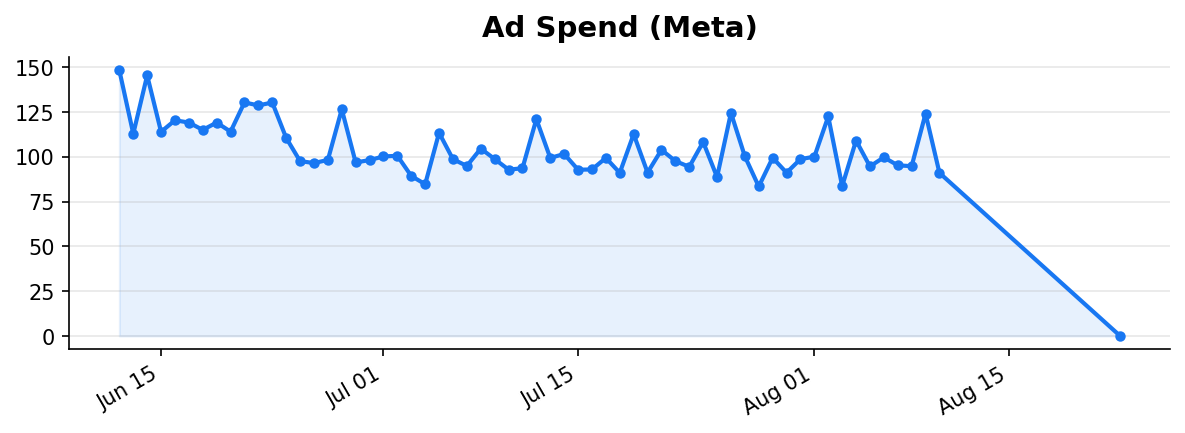
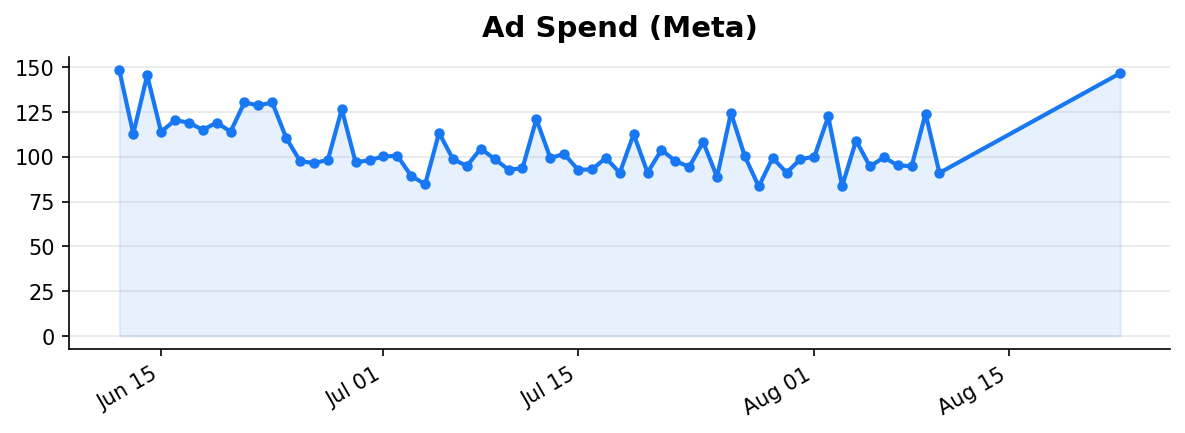
Update dashboard — 2026-08-24

diff --git a/docs/meta-ads.html b/docs/meta-ads.html
@@ -177,7 +177,7 @@
   <header>
     <span class="date-badge">2026-08-23</span>
     <h1>Meta Ads Daily Performance</h1>
-    <p>Paid media metrics &amp; calculated KPIs &middot; Generated 2026-08-24 12:15 UTC</p>
+    <p>Paid media metrics &amp; calculated KPIs &middot; Generated 2026-08-24 12:18 UTC</p>
   </header>
 
   <!-- ═══════════ RAW METRICS ═══════════ -->
@@ -190,37 +190,37 @@
   <div class="metric-grid">
     <div class="metric-card">
       <div class="label">Spend</div>
-      <div class="value">$0.00</div>
+      <div class="value">$146.58</div>
     </div>
     <div class="metric-card">
       <div class="label">Purchases</div>
-      <div class="value">0</div>
+      <div class="value">5</div>
       <div class="formula">Meta-reported purchases</div>
     </div>
     <div class="metric-card">
       <div class="label">Purchase Value</div>
-      <div class="value">$0.00</div>
+      <div class="value">$199.95</div>
       <div class="formula">Meta-attributed total purchase value</div>
     </div>
     <div class="metric-card">
       <div class="label">Impressions</div>
-      <div class="value">0</div>
+      <div class="value">3,779</div>
     </div>
     <div class="metric-card">
       <div class="label">Reach</div>
-      <div class="value">0</div>
+      <div class="value">3,171</div>
     </div>
     <div class="metric-card">
       <div class="label">Link Clicks</div>
-      <div class="value">0</div>
+      <div class="value">156</div>
     </div>
     <div class="metric-card">
       <div class="label">3-Second Plays</div>
-      <div class="value">0</div>
+      <div class="value">677</div>
     </div>
     <div class="metric-card">
       <div class="label">25% Plays</div>
-      <div class="value">0</div>
+      <div class="value">180</div>
     </div>
   </div>
 
@@ -234,47 +234,47 @@
   <div class="metric-grid">
     <div class="metric-card">
       <div class="label">ROAS</div>
-      <div class="value">0.00x</div>
+      <div class="value">1.36x</div>
       <div class="formula">Meta-reported Return on Ad Spend</div>
     </div>
     <div class="metric-card">
       <div class="label">MER</div>
-      <div class="value">0.00x</div>
+      <div class="value">1.36x</div>
       <div class="formula">Meta Revenue / Meta Spend</div>
     </div>
     <div class="metric-card">
       <div class="label">CPP</div>
-      <div class="value">$0.00</div>
+      <div class="value">$29.32</div>
       <div class="formula">Meta Spend / Meta Purchases</div>
     </div>
     <div class="metric-card">
       <div class="label">CTR</div>
-      <div class="value">0.00%</div>
+      <div class="value">4.13%</div>
       <div class="formula">Link Clicks / Impressions</div>
     </div>
     <div class="metric-card">
       <div class="label">Frequency</div>
-      <div class="value">0.0</div>
+      <div class="value">1.2</div>
       <div class="formula">Impressions / Reach</div>
     </div>
     <div class="metric-card">
       <div class="label">CPC</div>
-      <div class="value">$0.00</div>
+      <div class="value">$0.94</div>
       <div class="formula">Meta Spend / Link Clicks</div>
     </div>
     <div class="metric-card">
       <div class="label">CPM</div>
-      <div class="value">$0.00</div>
+      <div class="value">$38.79</div>
       <div class="formula">(Meta Spend / Impressions) &times; 1,000</div>
     </div>
     <div class="metric-card">
       <div class="label">Hook Rate</div>
-      <div class="value">0.0%</div>
+      <div class="value">17.9%</div>
       <div class="formula">3s Plays / Impressions (video ads only)</div>
     </div>
     <div class="metric-card">
       <div class="label">Hold Rate</div>
-      <div class="value">0.0%</div>
+      <div class="value">26.6%</div>
       <div class="formula">25% Plays / 3s Plays</div>
     </div>
   </div>
@@ -320,23 +320,23 @@
         
         <tr>
           <td>2026-08-23</td>
-          <td>$0.00</td>
-          <td>0</td>
-          <td>$0.00</td>
-          <td>0</td>
-          <td>0</td>
-          <td>0</td>
-          <td>0</td>
-          <td>0</td>
-          <td>0.00x</td>
-          <td>0.00x</td>
-          <td>$0.00</td>
-          <td>0.00%</td>
-          <td>0.0</td>
-          <td>$0.00</td>
-          <td>$0.00</td>
-          <td>0.0%</td>
-          <td>0.0%</td>
+          <td>$146.58</td>
+          <td>5</td>
+          <td>$199.95</td>
+          <td>3,779</td>
+          <td>3,171</td>
+          <td>156</td>
+          <td>677</td>
+          <td>180</td>
+          <td>1.36x</td>
+          <td>1.36x</td>
+          <td>$29.32</td>
+          <td>4.13%</td>
+          <td>1.2</td>
+          <td>$0.94</td>
+          <td>$38.79</td>
+          <td>17.9%</td>
+          <td>26.6%</td>
         </tr>
         
         <tr>

diff --git a/docs/index.html b/docs/index.html
@@ -184,7 +184,7 @@
   <header>
     <span class="date-badge">2026-08-23</span>
     <h1>Daily Central Command Dashboard</h1>
-    <p>Auto-updated daily &middot; Last generated 2026-08-24 12:15 UTC</p>
+    <p>Auto-updated daily &middot; Last generated 2026-08-24 12:18 UTC</p>
   </header>
 
   <!-- Core KPIs -->
@@ -208,7 +208,7 @@
     <div class="kpi-card">
       <div class="label">Ad Spend</div>
       <div class="source">Meta</div>
-      <div class="value">$0.00</div>
+      <div class="value">$146.58</div>
     </div>
     <div class="kpi-card">
       <div class="label">CVR</div>
@@ -218,7 +218,7 @@
     <div class="kpi-card">
       <div class="label">CPP</div>
       <div class="source">Meta Spend / Meta Purchases</div>
-      <div class="value">$0.00</div>
+      <div class="value">$29.32</div>
     </div>
   </div>
 
@@ -309,8 +309,8 @@
             <td>17</td>
             <td>8</td>
             <td>$297.91</td>
-            <td>$0.00</td>
-            <td>$0.00</td>
+            <td>$146.58</td>
+            <td>$29.32</td>
             <td class="cvr-high">3.59%</td>
             <td>47.1%</td>
             <td>8</td>

diff --git a/docs/analytics.html b/docs/analytics.html
@@ -199,7 +199,7 @@
   <header>
     <span class="date-badge">2026-08-23</span>
     <h1>GA4 Analytics</h1>
-    <p>Site performance &amp; paid ad analysis &middot; Generated 2026-08-24 12:15 UTC</p>
+    <p>Site performance &amp; paid ad analysis &middot; Generated 2026-08-24 12:18 UTC</p>
   </header>
 
   <!-- ═══════════ SECTION 1: SITE SUMMARY ═══════════ -->
@@ -616,6 +616,20 @@
         </tr>
       </thead>
       <tbody>
+        
+        <tr>
+          <td class="sticky-col">2026-08-23</td>
+          <td>207</td>
+          <td>195</td>
+          <td>223</td>
+          <td>511</td>
+          <td>14.8%</td>
+          <td>82s</td>
+          <td>17</td>
+          <td>8</td>
+          <td>$294.92</td>
+          <td class="cvr-high">3.59%</td>
+        </tr>
         
         <tr>
           <td class="sticky-col">2026-08-23</td>

diff --git a/docs/landing-pages.html b/docs/landing-pages.html
@@ -194,7 +194,7 @@
 
   <header>
     <h1>Landing Page Performance</h1>
-    <p>Conversion by landing page &middot; Key event: purchase &middot; Generated 2026-08-24 12:15 UTC</p>
+    <p>Conversion by landing page &middot; Key event: purchase &middot; Generated 2026-08-24 12:18 UTC</p>
   </header>
 
   <!-- Controls -->
